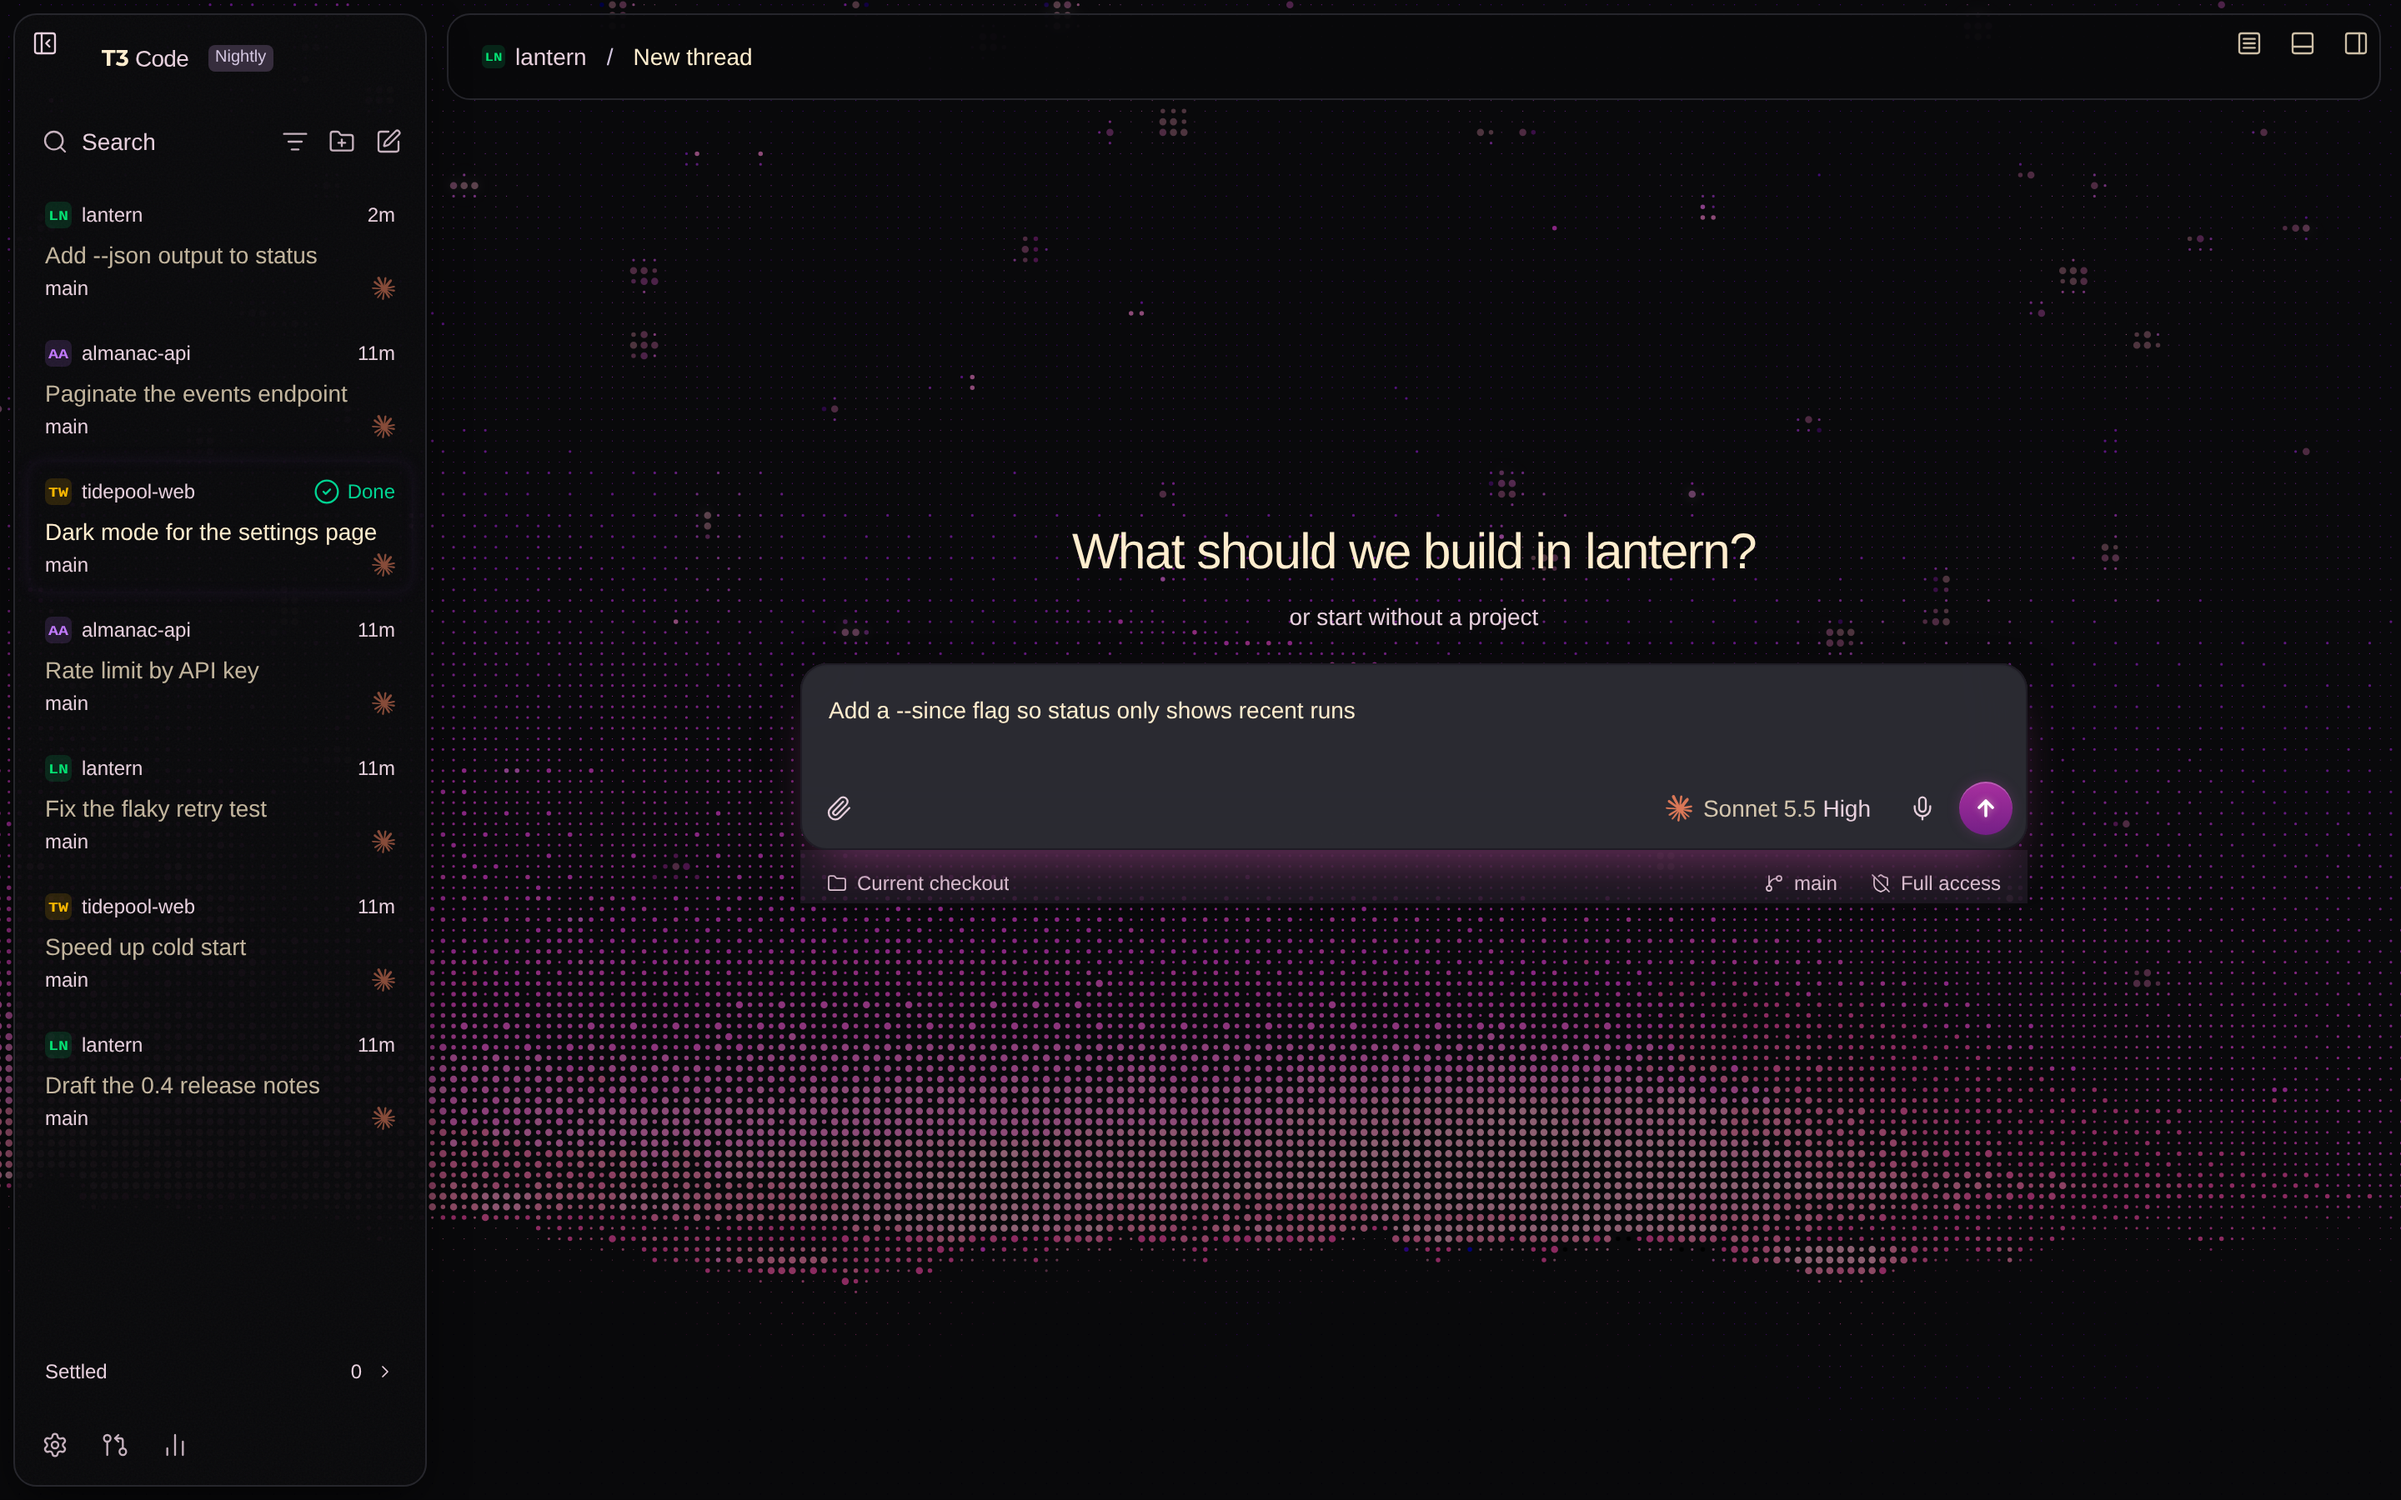
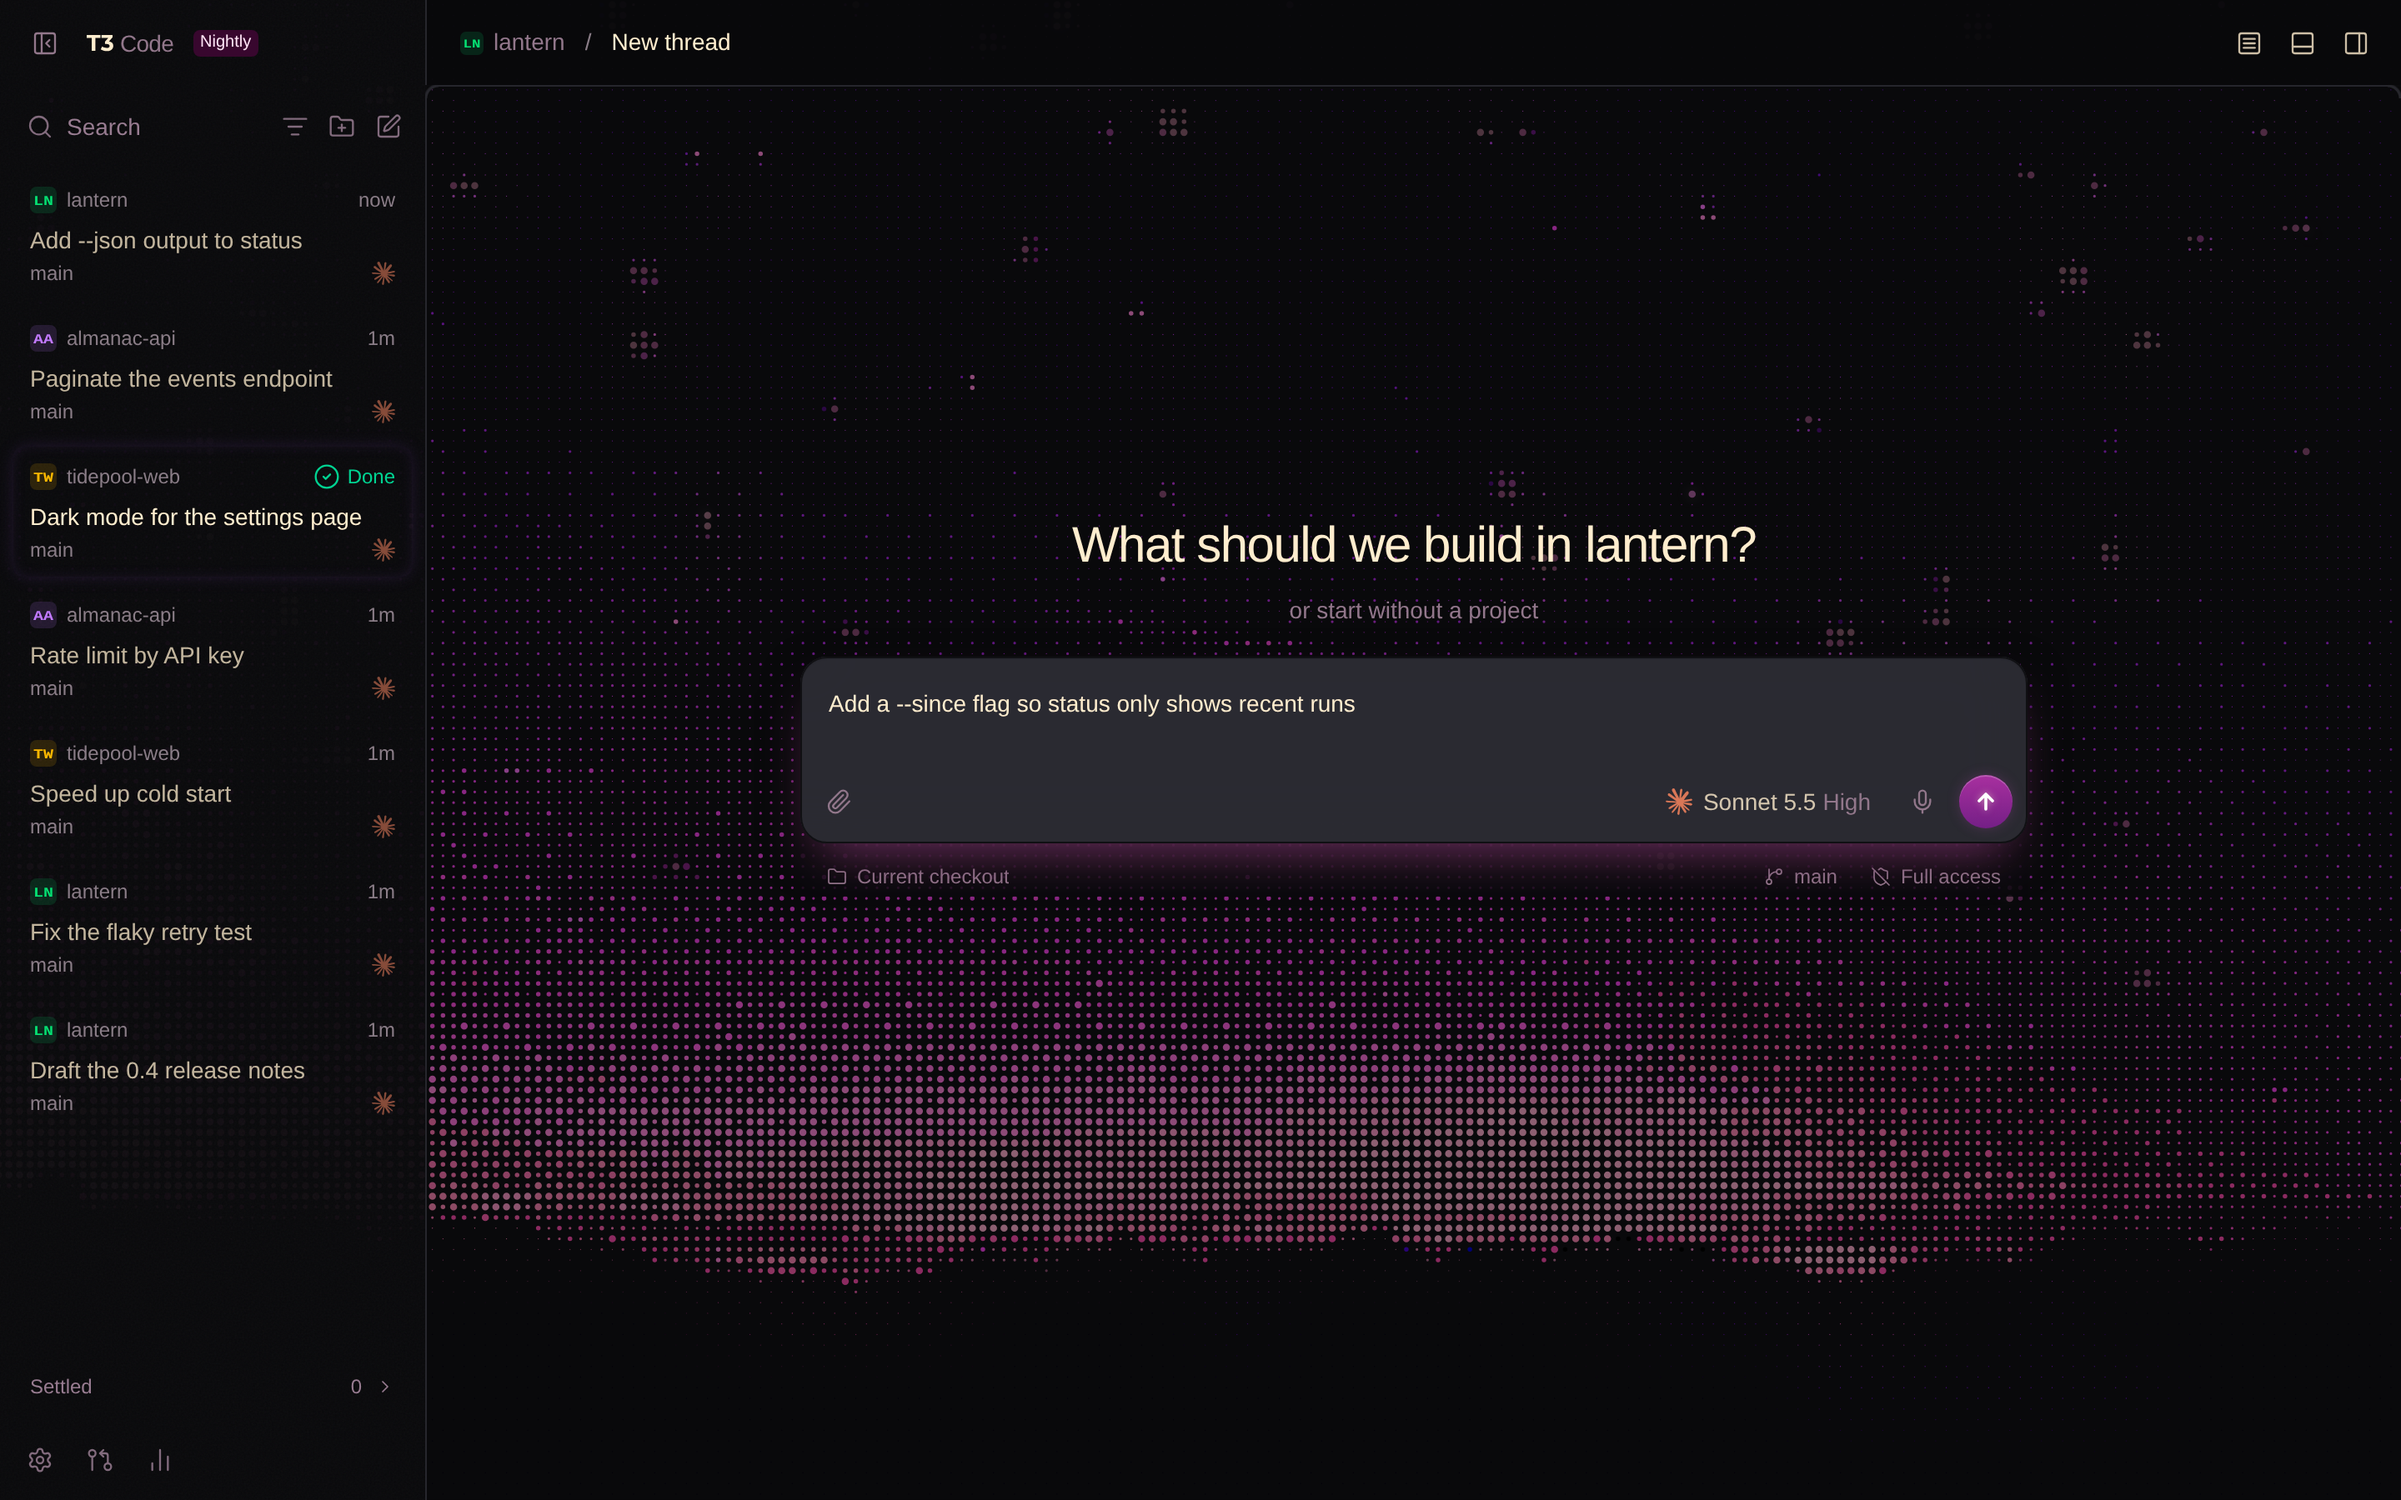
Retake the screenshots for the framed layout and update the README
- Stills and GIFs show the sidebar and header attached to the window edges.
- README: how to update an installed theme, the current CSS size, and wording for the new layout.

diff --git a/README.md b/README.md
@@ -1,13 +1,13 @@
 # Starry Ridge
 
 A dark theme for [T3 Code](https://t3.codes) that puts a dotted night sky behind the app. Stars sparkle
-faintly, a shooting star crosses now and then, and the panels float over the sky as dark cards.
+faintly, a shooting star crosses now and then, and the messages and composer float over the sky as dark cards.
 
 ![Typing a message and getting a reply in T3 Code with the Starry Ridge theme](media/thread.gif)
 
 ## Screenshots
 
-![A new thread: the sky, the floating sidebar, and the composer](media/home.png)
+![A new thread: the sky, the sidebar, and the composer](media/home.png)
 
 ![A reply with a code block](media/thread.png)
 
@@ -35,6 +35,8 @@ The screenshots show T3 Code with invented demo projects.
 4. Click **Choose files**, select `theme.json`, then click **Add theme**.
 
 T3 Code switches to Starry Ridge. To go back, pick another theme on the same page.
+
+To update, add the new `theme.json` the same way and choose **Update existing**.
 
 Tested on T3 Code 0.1.10-nightly.20261114, in the Linux desktop app and in the web client in Chromium.
 
@@ -86,9 +88,9 @@ artwork's own renderer. It writes `reference-*.png` and `compare-*.png` next to 
 
 ## Limits
 
-- **Size:** T3 Code allows 20,000 characters of theme CSS. This theme uses about 18,800, so there is little room to add more.
+- **Size:** T3 Code allows 20,000 characters of theme CSS. This theme uses about 19,400, so there is little room to add more.
 - **Internal selectors:** some effects hook into parts of T3 Code that its theme guide does not list as
-  stable: the floating sidebar, the per-row cards, the unread glow, and the send button. A T3 Code
+  stable: the sidebar's edge and corner, the per-row cards, the unread glow, and the send button. A T3 Code
   update can switch one of them off. The rest of the theme keeps working.
 - **Dark only:** the theme defines a dark appearance.
 - **Mobile:** T3 Code's theme guide says its mobile apps do not use themes.
